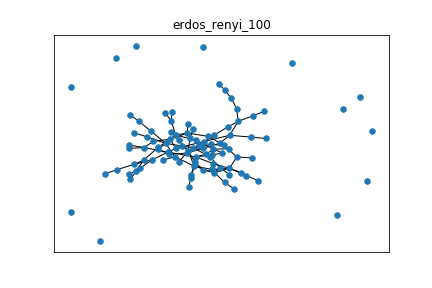
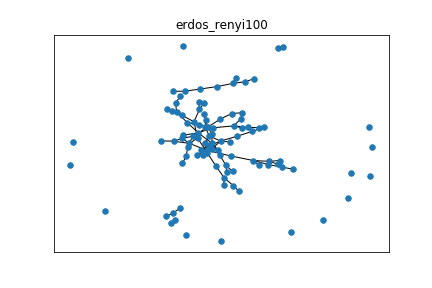
Added Curves with removed data

diff --git a/IC_SAITO/src/GraphsTest.py b/IC_SAITO/src/GraphsTest.py
@@ -38,9 +38,7 @@ def handmadeGraphTest():
 def saveCscadesDistrib(Cascades,t):
     lens = np.array([len(c) for c in Cascades])
     plt.hist(lens)
-    #hist = np.histogram(lens)[0]
     plt.title(t)
-    #plt.bar(np.arange(len(hist)),hist)
     plt.savefig(DATA_PATH+t+'_csc')
     plt.show()
 
@@ -48,33 +46,52 @@ def saveCscadesDistrib(Cascades,t):
 def CrossVal_MAP(model,D):
     return Metrics.MAP(model.graph,D)
 
-def ScoresGraphModels(graphs,graphs_titles,models,nbCascades):
-    mesures = ['MSE','MAP','time']
-    data = {m:{str(g_t):dict() for g_t in graphs_titles} for m in mesures}
+
+def ScoresGraphModels(graphs,graphs_titles,models,nbCascades,removed_pct_list):
+    metrics = ['fit_time','MSE','MAP']
+    data = {m:{str(g_t):dict() for g_t in graphs_titles} for m in metrics}
+    curves = {m:{str(g_t):dict() for g_t in graphs_titles} for m in metrics}
     
     for g,t in zip(graphs,graphs_titles) : 
         cascades = csc.genCascades(g,nbCascades)
         saveCscadesDistrib(cascades,t)
         D = [csc.CascadeToTimeRepr(c) for c in cascades]
-        crossVal_MSE = lambda m,d : Metrics.MSE(g, m.graph)
         
         for model in models: 
-            print("\nfor :",t,str(model))
-            model.set_params(csc.nodes_in_D(D))
-            cross_res = cross_validate(model,D,scoring={"MAP":CrossVal_MAP,"MSE":crossVal_MSE})
-            print(cross_res)
-            
-            data["MSE"][t][str(model)] = cross_res['test_MSE'].mean()
-            data["MAP"][t][str(model)] = cross_res['test_MAP'].mean()
-            data["time"][t][str(model)] = cross_res['fit_time'].mean()
+           res = evaluateModelCurve(model,t,g,cascades,removed_pct_list)
+           for metric,r in zip(metrics,res):
+               data[metric][t][str(model)] = r[0]
+               curves[metric][t][str(model)] = r           
 
         data["MAP"][t]["original"] = Metrics.MAP(g,D)
 
-    dfs = [pd.DataFrame(data[m]) for m in mesures]
-    for df,m in zip(dfs,mesures):
+    dfs = [pd.DataFrame(data[m]) for m in metrics]
+    for df,m in zip(dfs,metrics):
         df.name = m
-    return dfs
+    return dfs,curves
+
+def evaluateModel(model,gtitle,g,D,verbose= False):
+    if (verbose):
+        print("\nfor :",gtitle,str(model))
+    crossVal_MSE = lambda m,d : Metrics.MSE(g, m.graph)
+    model.set_params(csc.nodes_in_D(D))
+    cross_res = cross_validate(model,D,scoring={"MAP":CrossVal_MAP,"MSE":crossVal_MSE})
+    if(verbose):
+        print(cross_res)
+    time,MSE,MAP = cross_res['test_MSE'].mean(),cross_res['test_MAP'].mean(),cross_res['fit_time'].mean()
+    return time,MSE,MAP
+
+def evaluateModelCurve(model,gtitle,g,cascades,removed_pct_list):
+    time = np.zeros(len(removed_pct_list))
+    MSE = np.zeros(len(removed_pct_list))
+    MAP = np.zeros(len(removed_pct_list))
     
+    for i,pct in enumerate(removed_pct_list):
+        partial_cascades = csc.remove_xpct_infections(cascades,pct)
+        D = [csc.CascadeToTimeRepr(c) for c in partial_cascades]
+        time[i],MSE[i],MAP[i] = evaluateModel(model,gtitle,g,D,True)
+    return time,MSE,MAP
+
 def launch_test(nbCascades):
     # Generate GRAPHS 
     nx_to_dok_rand = lambda g : GGen.randomize_edges_values(
@@ -97,24 +114,37 @@ def launch_test(nbCascades):
     graphs_titles = [f"scale_free", f"erdos_renyi",
                      f"connected_cave_man", f"barabasi"]
     
+    removed_pct_list = np.linspace(0,0.5,5)
     # train and test 
     models=  [IC_EM_NotContiguous(),IC_EM_Saito2008()]
-    dfs = ScoresGraphModels(graphs_dok,graphs_titles,models,nbCascades)
+    dfs,curves = ScoresGraphModels(graphs_dok,graphs_titles,models,nbCascades,removed_pct_list)
     pd.set_option('display.max_columns', len(graphs))
     
-    # Save graphs 
+    # Save network graphs 
     for g,dok,t in zip(graphs,graphs_dok,graphs_titles) : 
-        plt.title(t+f"_{dok.shape[0]}") 
+        plt.title(t+f"{dok.shape[0]}") 
         nx.draw_networkx(g,with_labels=False,node_size=30)
         plt.savefig(DATA_PATH+t+'_g')
         plt.show()
-        
+    
     # save perfs : 
     for df in dfs:
         print(f"\n{df.name}:\n{df}")
         with open(DATA_PATH+df.name+".md","w") as f:
             f.write(df.to_markdown())
             
+    # save perf with missing data 
+    for m_id,model in enumerate(models):
+        for metric in ['MSE','MAP']:            
+            plt.title(f'Perf for {str(model)}_{metric}')
+            for g_id,t in enumerate(graphs_titles):
+                c = curves[metric][t][str(model)]
+                plt.plot(removed_pct_list,c,label=t)
+            plt.legend()
+            plt.xlabel('% of infections removed')
+            plt.ylabel(f'{metric}_score')
+            plt.savefig(f'{DATA_PATH}{str(model)}_{metric}.png')
+            plt.show()
 def main():
     print("start")
     launch_test(200)

diff --git a/IC_SAITO/src/Cascade.py b/IC_SAITO/src/Cascade.py
@@ -5,6 +5,7 @@
     --> Cascade filtering
 """
 import numpy as np
+import copy
 
 def genCascades(graph,nbCascades):
     '''
@@ -91,9 +92,36 @@ def nodes_in_D(D):
     return np.unique([n for Ds in D 
                         for nodes in Ds 
                         for n in nodes])
+
+def firstInfected(Ds):
+    for nodes in Ds: 
+        if (nodes):
+            return nodes[0]
+    raise Exception("Empty Cascade")
+    
 def sortDbySource(D):
-    'Sort cascades repr by source (first infecteed node)'
-    return sorted(D, key = lambda Ds:Ds[0][0])
+    'Sort cascades repr by source (first infected node)'
+    return sorted(D, key = lambda Ds:firstInfected(Ds))
+
+def remove_xpct_infections(C, pct):
+    assert 0 <= pct <=1
+    ''' Returns a copy of all cascades from database from which @pct of the observable infections has been removed.'''
+    infection_ids = np.array([[i,n_i] for i,c_i in enumerate(C)
+                                        for n_i in c_i.keys()])
+    np.random.shuffle(infection_ids)
+    to_remove = infection_ids[:int(pct*len(infection_ids))]
+    new_C = copy.deepcopy(C)
+    for (c_i,n_i) in to_remove:
+        new_C[c_i].pop(n_i)
+        
+    new_C = list(filter(bool,new_C))
+    return new_C
+    
+def remove_xpct_users_by_cascades(c,pct):
+    ''' return a copy of all cascade from which some data is removed
+    At each cascades @pct of the users from the graph a considered hidden'''
+    pass
+    
     
 
 def nodes_in_cascades(C):

diff --git a/IC_SAITO/src/Metrics.py b/IC_SAITO/src/Metrics.py
@@ -37,9 +37,9 @@ def MAP(graph,D):
     last_source =None
     mean_ap = 0
     for Ds in D: 
-        if Ds[0][0] != last_source: # on actualise les predictions en fonctions de le la source
-            last_source = Ds[0][0]
-            pws_gs =Pws_gs(graph,Ds[0][0])
+        if csc.firstInfected(Ds) != last_source: # on actualise les predictions en fonctions de le la source
+            last_source = csc.firstInfected(Ds)
+            pws_gs =Pws_gs(graph,csc.firstInfected(Ds))
             U_d = sorted(pws_gs,key=pws_gs.get,reverse=True) # sort par ordre decroissant
         DsNodeSet = set(csc.nodes_in_Ds(Ds)) # noeuds faisant partie de l'episode d'infection Ds
         mean_ap+=AP(U_d,DsNodeSet,graph)

diff --git a/IC_SAITO/src/IC_EM_NotContiguous.py b/IC_SAITO/src/IC_EM_NotContiguous.py
@@ -15,7 +15,7 @@ class IC_EM_NotContiguous(IC_EM_Saito2008):
         return 1 - np.prod ([1-g[parent,w] for parent in preceding_nodes])
     
     def __str__(self):
-        return f'IC_EM_NotContiguoust={self.threshold}'
+        return f'IC_EM_NotContiguous'
     
     
     def D_plus_uv_id(self,D,u,v):

diff --git a/IC_SAITO/src/IC_EM_Saito2008.py b/IC_SAITO/src/IC_EM_Saito2008.py
@@ -22,7 +22,7 @@ class IC_EM_Saito2008(BaseEstimator):
         self.nodes = nodes
     
     def __str__(self):
-        return f'IC_EM_Saito2008_t={self.threshold}'
+        return f'IC_EM_Saito2008'
         
 ################### EM algorithm ####################
 

diff --git a/README.md b/README.md
@@ -17,7 +17,7 @@ Les longueurs des cascades ont les distributions suivantes : <br>
 
 ### IC_Sait_EM testing
 
-|  TIME                    |   scale_free_100 |   erdos_renyi_50 |   connected_cave_man_40 |   barabasi_30 |
+|  MEAN TIME               |   scale_free_100 |   erdos_renyi_50 |   connected_cave_man_40 |   barabasi_30 |
 |:-------------------------|-----------------:|-----------------:|------------------------:|--------------:|
 | IC_EM_NotContiguoust=0.1 |          1.40438 |          4.97177 |                2.29589  |       3.84879 |
 | IC_EM_Saito2008_t=0.1    |          1.04466 |          1.48646 |                0.656524 |       1.45412 |
@@ -33,6 +33,8 @@ Les longueurs des cascades ont les distributions suivantes : <br>
 | IC_EM_Saito2008_t=0.1    |         0.92538  |         0.851482 |                0.917274 |      0.896683 |
 | original                 |         0.981216 |         0.913629 |                0.947582 |      0.936219 |
 
-
-
 ### Missing user testing
+
+Courbes de performance selon le % d'infections retirée :
+
+![NotContiguous_MSE](IC_SAITO/data/eval/_IC_EM_NotContiguous_MSE.png) ![NotContiguous_MAP](IC_SAITO/data/eval/_IC_EM_NotContiguous_MAP.png)  ![IC_EM_Saito2008_MSE](IC_SAITO/data/eval/_IC_EM_Saito2008_MSE.png)  ![IC_EM_Saito2008_MAP](IC_SAITO/data/eval/_IC_EM_Saito2008_MAP.png)

diff --git a/IC_SAITO/data/eval/MAP.md b/IC_SAITO/data/eval/MAP.md
@@ -1,5 +1,5 @@
-|                          |   scale_free |   erdos_renyi |   connected_cave_man |   barabasi |
-|:-------------------------|-------------:|--------------:|---------------------:|-----------:|
-| IC_EM_NotContiguoust=0.1 |     0.875131 |      0.824866 |             0.853413 |   0.874855 |
-| IC_EM_Saito2008_t=0.1    |     0.898103 |      0.837194 |             0.851015 |   0.857589 |
-| original                 |     0.978516 |      0.892229 |             0.926007 |   0.930659 |
+|                     |   scale_free |   erdos_renyi |   connected_cave_man |   barabasi |
+|:--------------------|-------------:|--------------:|---------------------:|-----------:|
+| IC_EM_NotContiguous |     1.33233  |       1.71205 |             5.93552  |  18.2314   |
+| IC_EM_Saito2008     |     1.01584  |       1.22082 |             1.72449  |   5.05645  |
+| original            |     0.977591 |       0.94839 |             0.950738 |   0.947653 |

diff --git a/IC_SAITO/data/eval/fit_time.md b/IC_SAITO/data/eval/fit_time.md
@@ -1,4 +1,4 @@
 |                     |   scale_free |   erdos_renyi |   connected_cave_man |   barabasi |
 |:--------------------|-------------:|--------------:|---------------------:|-----------:|
-| IC_EM_NotContiguous |     0.881402 |      0.852835 |             0.897444 |   0.915001 |
-| IC_EM_Saito2008     |     0.904166 |      0.866634 |             0.880025 |   0.912946 |
+| IC_EM_NotContiguous |      68.1685 |       31.391  |              62.3959 |    35.6348 |
+| IC_EM_Saito2008     |      18.1289 |       22.8098 |              59.4851 |    26.9557 |
